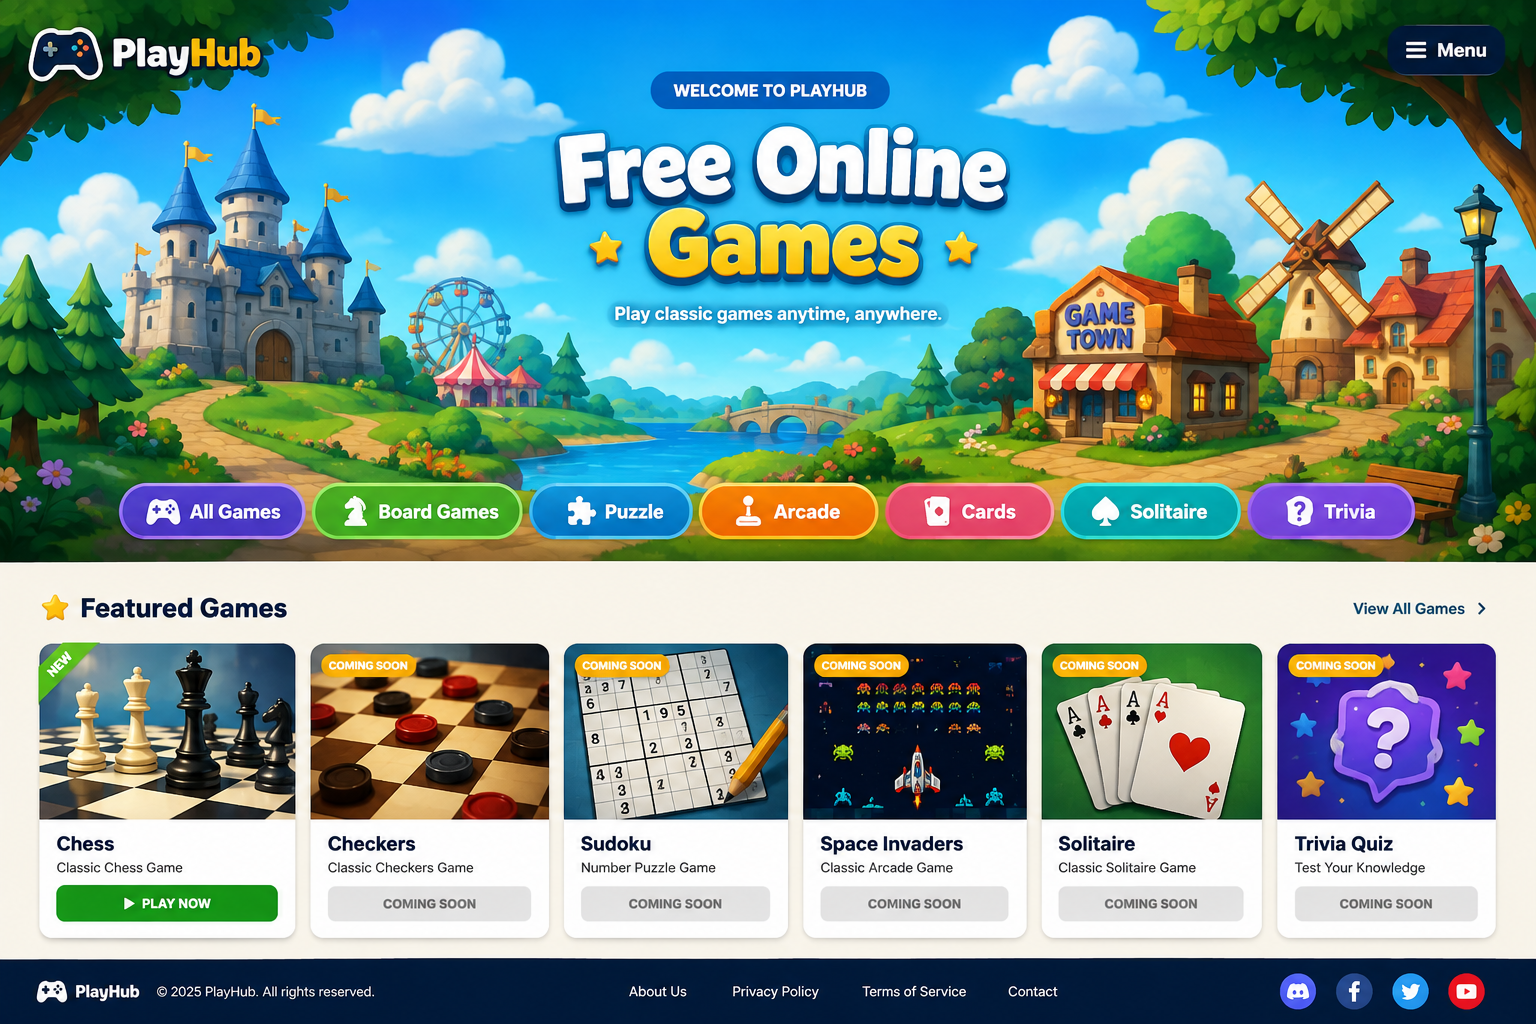
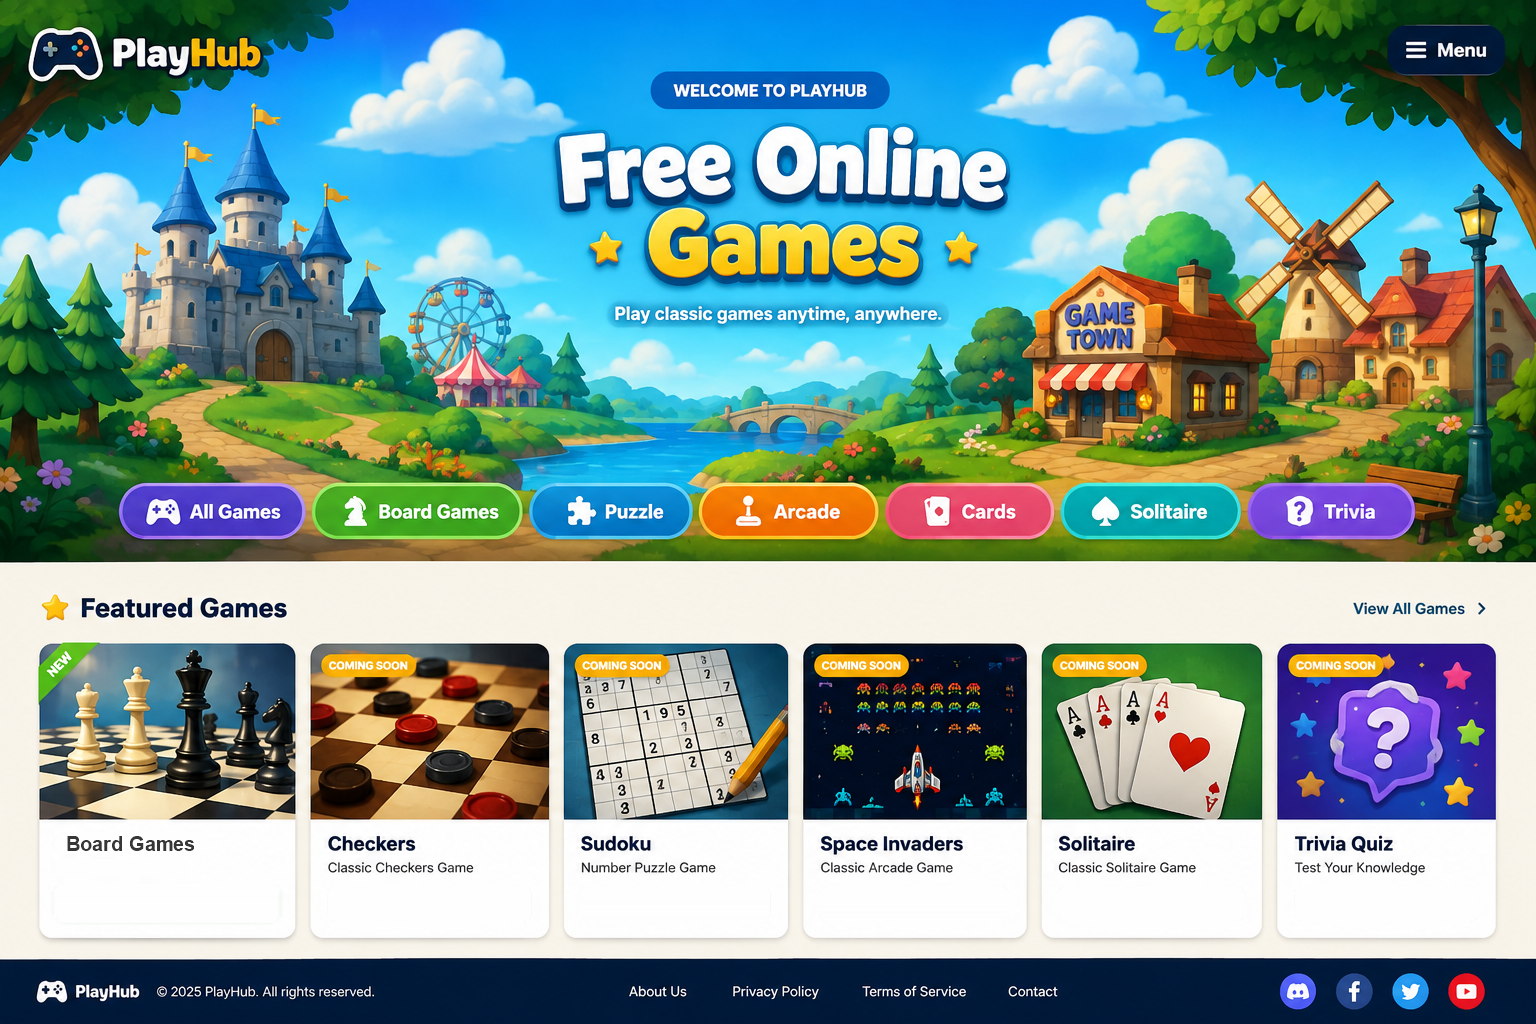
feat(homepage): use 1536x1024 original mockup as the single canonical design - apply all prior fixes to it (Board Games title on Chess card, remove baked-in PLAY NOW/COMING SOON buttons on all 6 cards), add Quiz card hotspot, and rescale PLAY NOW overlay to 1536 base

diff --git a/index.html b/index.html
@@ -47,8 +47,8 @@
         class="design-shot"
         src="homepage.png"
         usemap="#playhub-map"
-        alt="PlayHub homepage — WELCOME TO PLAYHUB, game categories and featured games: Chess, Checkers, Sudoku, Space Invaders, Solitaire"
-        width="1275"
+        alt="PlayHub homepage — WELCOME TO PLAYHUB, game categories and featured games: Chess, Checkers, Sudoku, Space Invaders, Solitaire, Quiz"
+        width="1536"
         height="1024"
       />
       <a class="overlay-play overlay-play--chess" href="games/chess.html" title="Play Chess — Classic Chess Game">PLAY NOW</a>
@@ -56,13 +56,14 @@
       <a class="overlay-play overlay-play--solitaire" href="games/solitaire.html" title="Play Solitaire — Classic Solitaire Game">PLAY NOW</a>
     </div>
 
-    <!-- 設計圖上的互動熱區：點卡片進入對應遊戲（座標為 1275×1024 原圖座標） -->
+    <!-- 設計圖上的互動熱區：點卡片進入對應遊戲（座標為 1536×1024 原圖座標） -->
     <map name="playhub-map" id="playhub-map">
       <area shape="rect" coords="36,614,300,952" href="games/chess.html" title="Chess" alt="Play Chess — Classic Chess Game" />
       <area shape="rect" coords="304,614,556,952" href="games/checkers.html" title="Checkers" alt="Play Checkers — Classic Checkers Game" />
       <area shape="rect" coords="560,614,796,952" href="#games" data-soon="Sudoku" title="Sudoku — Coming Soon" alt="Sudoku — coming soon" />
       <area shape="rect" coords="800,614,1036,952" href="#games" data-soon="Space Invaders" title="Space Invaders — Coming Soon" alt="Space Invaders — coming soon" />
       <area shape="rect" coords="1038,614,1270,952" href="games/solitaire.html" title="Solitaire" alt="Play Solitaire — Classic Solitaire Game" />
+      <area shape="rect" coords="1274,614,1536,952" href="#games" data-soon="Quiz" title="Quiz — Coming Soon" alt="Quiz — coming soon" />
 
       <!-- About / Privacy 入口：點設計圖 footer 上的 About US / Privacy Policy 文字進入對應頁面 -->
       <area shape="rect" coords="620,978,700,1005" href="about.html" title="About PlayHub" alt="About PlayHub" />

diff --git a/css/style.css b/css/style.css
@@ -697,12 +697,13 @@ a {
 
 /* 覆蓋在設計圖上的 PLAY NOW 按鈕（遊戲實際上可玩）
    尺寸統一：三顆按鈕同寬同高，各自在卡片內水平置中
-   （對應 1275×1024 原圖：Chess 中心 x168 / Checkers x430 / Solitaire x1154） */
+   （對應 1536×1024 原圖：Chess 中心 x168 / Checkers x430 / Solitaire x1154）
+   寬度 11.62% = 178.5px（與先前 1275 版 14% 同視覺大小） */
 .overlay-play {
   position: absolute;
   top: 85.5%;
   height: 5.5%;
-  width: 14%;
+  width: 11.62%;
   display: flex;
   align-items: center;
   justify-content: center;
@@ -726,9 +727,9 @@ a {
   transform: translateY(-1px);
 }
 
-.overlay-play--chess { left: 6.18%; }
-.overlay-play--checkers { left: 26.73%; }
-.overlay-play--solitaire { left: 83.51%; }
+.overlay-play--chess { left: 5.13%; }
+.overlay-play--checkers { left: 22.19%; }
+.overlay-play--solitaire { left: 69.32%; }
 
 .overlay-play:hover {
   background: linear-gradient(180deg, #1b8f20 0%, #15821a 100%);
